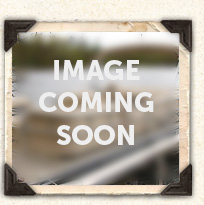
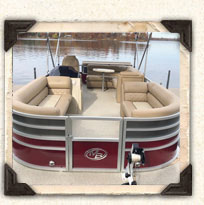
Boats Page Update
New Images

diff --git a/boats/boats.html b/boats/boats.html
@@ -227,7 +227,7 @@ Ideal for 3 to 5 people.</td>
 </table>
 <table cellspacing="0" cellpadding="0" border="0" class="boatRates">
 	<tr>
-		<td valign="top"><img src="/images/Montego.jpg" width="204" height="205" border="0"></td>
+		<td valign="top"><img src="/images/Montego1.jpg" width="204" height="205" border="0"></td>
 		<td width="408" valign="top">
 		<table cellpadding="0" cellspacing="0" border="0" width="408" height="205" background="/images/boat_rate.gif" style="background-repeat:no-repeat; ">
 			<tr>
